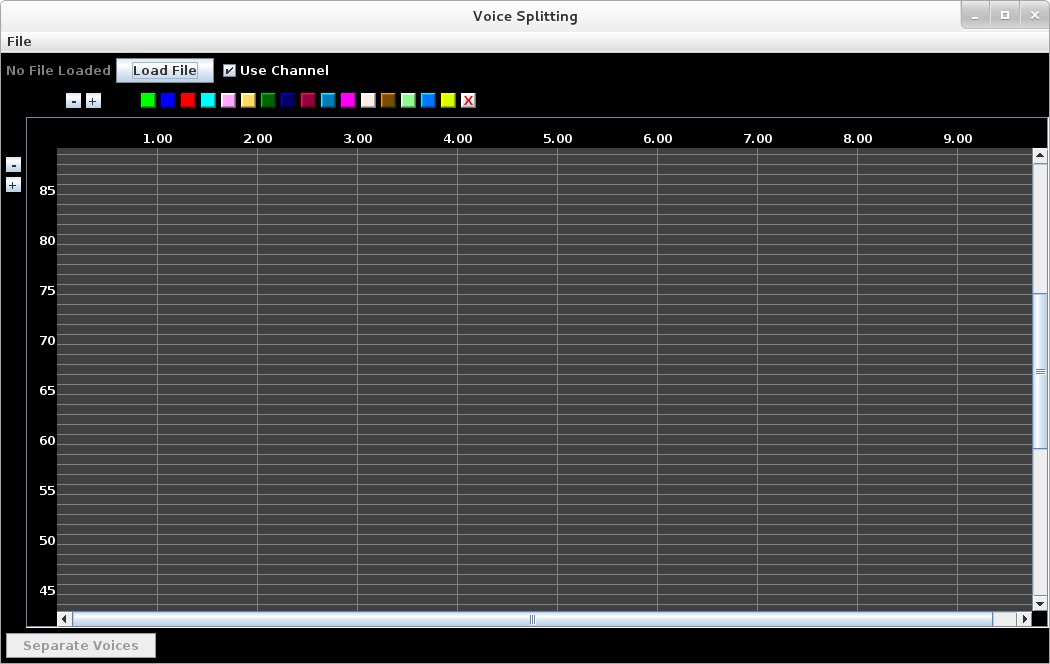
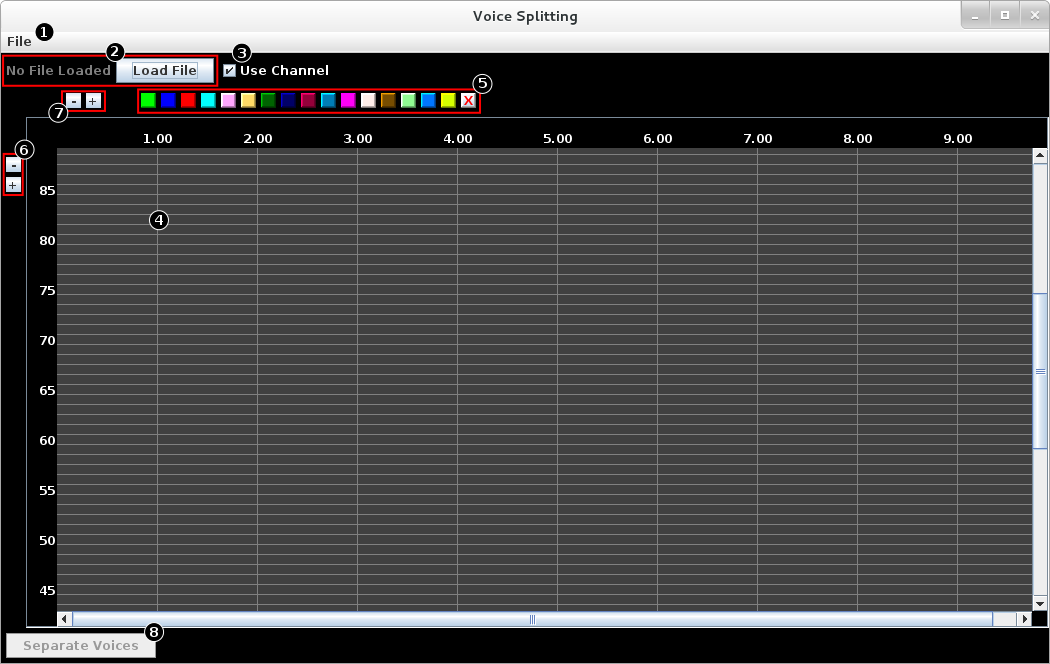
Added blank image and table describing it

diff --git a/gui.html b/gui.html
@@ -30,10 +30,68 @@
 		
 	<h3 id="sec-running">1. Running the Program</h3>
 	
-		<p>To run the program, simply use the command:
+		<p>To run the program, simply use the command
 		
 		<pre><code>java -cp bin voicesplitting.gui.VoiceSplittingGUI</code></pre>
 		</p>
+		
+		<p>The following window should pop up.</p>
+		
+		<img src="images/blank.png" alt="blank window">
+		
+		<table>
+		  <tr>
+		    <th>Label</th>
+		    <th>Function</th>
+		  </tr>
+		  <tr>
+		    <td>1</td>
+		    <td>File menu with three options:
+		      <ul>
+		        <li><code>Load...</code>: Load a new MIDI file.</li>
+		        <li><code>Export MIDI...</code>: Export the currently loaded MIDI data to a file. This is useful
+		        	when you have changed any meta-data about any of the notes from a loaded file.</li>
+		        <li><code>Preferences...</code>: Open the preferences window which allows the change of any of
+		        	the voice splitting parameters.</li>
+		      </ul>
+		    </td>
+		  </tr>
+		  <tr>
+		    <td>2</td>
+		    <td>A text box which displays the name of the currently loaded MIDI file, as well as a <code>Load File</code> button.</td>
+		  </tr>
+		  <tr>
+		    <td>3</td>
+		    <td>A checkbox to toggle whether to use channels (checked, default) or tracks (unchecked) as gold standard voice assignments
+		    	(and color-code the notes accordingly). This checkbox is only taken into account when a file is first loaded, so a file
+		    	must be reloaded for a change to be taken into account for coloring or accuracy calculation.</td>
+		  </tr>
+		  <tr>
+		    <td>4</td>
+		    <td>The main grid where notes are displayed. The notes are color-coded according to the setting of the use channel checkbox (#3).
+		    	The vertical axis represents the notes' pitches, and the horizontal axis represents time and is measured in seconds, where 0
+		    	is the beginning of the loaded MIDI performance.</td>
+		  </tr>
+		  <tr>
+		    <td>5</td>
+		    <td>Solo buttons, if any of them are active (depressed), only those notes which correspond to a channel (or track, depending
+		    	on the use channel checkbox) which is depressed will be displayed. This is useful when notes of different voices overlap.
+		    	The button on the far right with the red X will de-activate all of the solo buttons.</td>
+		  </tr>
+		  <tr>
+		    <td>6</td>
+		    <td>Zoom buttons for zooming the main grid in (+) or out (-) vertically.</td>
+		  </tr>
+		  <tr>
+		    <td>7</td>
+		    <td>Zoom buttons for zooming the main grid in (+) or out (-) horizontally.</td>
+		  </tr>
+		  <tr>
+		    <td>8</td>
+		    <td>The action button which separates the currently loaded MIDI data into voices (or unseparates, if the notes have already
+		    	been separated).</td>
+		  </tr>
+		</table>
 		
 	<h3 id="sec-loading">2. Loading a MIDI File</h3>
 
